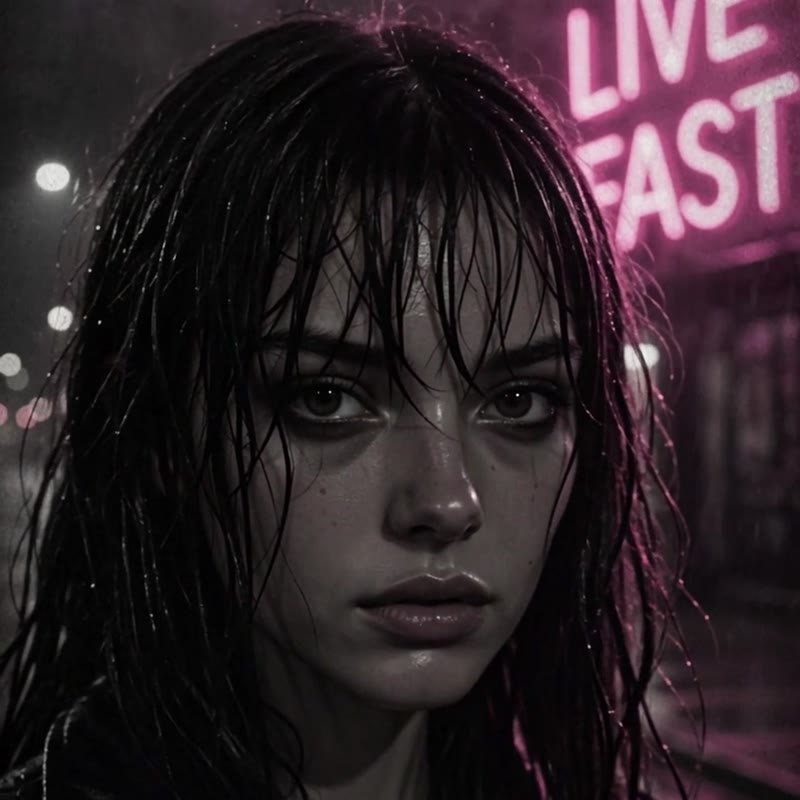
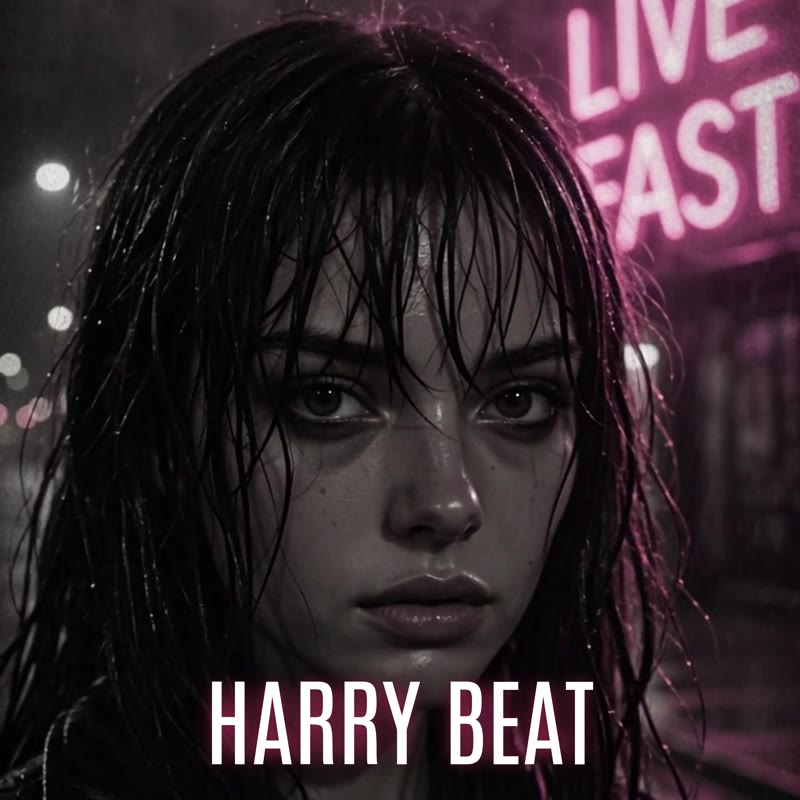
Storm cover text

Changed region(s): [[0.25, 0.8438, 0.75, 0.9688]]

diff --git a/index.html b/index.html
@@ -15,4 +15,4 @@
 <section id="contact"><h2 data-i18n="contact_title">Подписка и контакты</h2><form id="form"><input required name="name" placeholder="Ваше имя" data-i18n-ph="ph_name">
 <input required type="email" name="email" placeholder="Email"><textarea name="msg" placeholder="Сообщение (необязательно)" data-i18n-ph="ph_msg"></textarea>
 <button class="btn" type="submit" data-i18n="subscribe">Подписаться</button><p id="ok" class="ok"></p></form></section>
-<div class="socials"><a class="soc" href="https://www.instagram.com/gs_m1x/" target="_blank" rel="noopener" aria-label="Instagram" style="--c:#e1306c"><svg viewBox="0 0 24 24" width="22" height="22" fill="currentColor"><path d="M12 2.2c3.2 0 3.6 0 4.8.1 3.3.1 4.8 1.7 4.9 4.9.1 1.3.1 1.6.1 4.8s0 3.6-.1 4.8c-.1 3.2-1.7 4.8-4.9 4.9-1.3.1-1.6.1-4.8.1s-3.6 0-4.8-.1c-3.3-.1-4.8-1.7-4.9-4.9C2.2 15.6 2.2 15.2 2.2 12s0-3.6.1-4.8C2.4 3.9 4 2.4 7.2 2.3 8.4 2.2 8.8 2.2 12 2.2zm0 4.8a5 5 0 100 10 5 5 0 000-10zm0 8.2a3.2 3.2 0 110-6.4 3.2 3.2 0 010 6.4zm5.2-9.6a1.2 1.2 0 100 2.4 1.2 1.2 0 000-2.4z"/></svg><span>Instagram</span></a><a class="soc" href="https://www.tiktok.com/@harrywantsmusic" target="_blank" rel="noopener" aria-label="TikTok" style="--c:#25f4ee"><svg viewBox="0 0 24 24" width="22" height="22" fill="currentColor"><path d="M16.6 2h-3.3v13.4a2.9 2.9 0 11-2.9-2.9c.3 0 .6 0 .9.1V9.2a6.3 6.3 0 105.3 6.2V8.6a7.9 7.9 0 004.6 1.5V6.8a4.6 4.6 0 01-4.6-4.8z"/></svg><span>TikTok</span></a><a class="soc" href="https://www.youtube.com/@harrywantsmusic" target="_blank" rel="noopener" aria-label="YouTube" style="--c:#ff0033"><svg viewBox="0 0 24 24" width="22" height="22" fill="currentColor"><path d="M23.5 6.2a3 3 0 00-2.1-2.1C19.5 3.6 12 3.6 12 3.6s-7.5 0-9.4.5A3 3 0 00.5 6.2 31 31 0 000 12a31 31 0 00.5 5.8 3 3 0 002.1 2.1c1.9.5 9.4.5 9.4.5s7.5 0 9.4-.5a3 3 0 002.1-2.1A31 31 0 0024 12a31 31 0 00-.5-5.8zM9.6 15.6V8.4L15.8 12l-6.2 3.6z"/></svg><span>YouTube</span></a></div><footer>© 2026 HarryWantsMusic <span id="views"></span></footer><script src="script.js?v=28"></script></body></html>
+<div class="socials"><a class="soc" href="https://www.instagram.com/gs_m1x/" target="_blank" rel="noopener" aria-label="Instagram" style="--c:#e1306c"><svg viewBox="0 0 24 24" width="22" height="22" fill="currentColor"><path d="M12 2.2c3.2 0 3.6 0 4.8.1 3.3.1 4.8 1.7 4.9 4.9.1 1.3.1 1.6.1 4.8s0 3.6-.1 4.8c-.1 3.2-1.7 4.8-4.9 4.9-1.3.1-1.6.1-4.8.1s-3.6 0-4.8-.1c-3.3-.1-4.8-1.7-4.9-4.9C2.2 15.6 2.2 15.2 2.2 12s0-3.6.1-4.8C2.4 3.9 4 2.4 7.2 2.3 8.4 2.2 8.8 2.2 12 2.2zm0 4.8a5 5 0 100 10 5 5 0 000-10zm0 8.2a3.2 3.2 0 110-6.4 3.2 3.2 0 010 6.4zm5.2-9.6a1.2 1.2 0 100 2.4 1.2 1.2 0 000-2.4z"/></svg><span>Instagram</span></a><a class="soc" href="https://www.tiktok.com/@harrywantsmusic" target="_blank" rel="noopener" aria-label="TikTok" style="--c:#25f4ee"><svg viewBox="0 0 24 24" width="22" height="22" fill="currentColor"><path d="M16.6 2h-3.3v13.4a2.9 2.9 0 11-2.9-2.9c.3 0 .6 0 .9.1V9.2a6.3 6.3 0 105.3 6.2V8.6a7.9 7.9 0 004.6 1.5V6.8a4.6 4.6 0 01-4.6-4.8z"/></svg><span>TikTok</span></a><a class="soc" href="https://www.youtube.com/@harrywantsmusic" target="_blank" rel="noopener" aria-label="YouTube" style="--c:#ff0033"><svg viewBox="0 0 24 24" width="22" height="22" fill="currentColor"><path d="M23.5 6.2a3 3 0 00-2.1-2.1C19.5 3.6 12 3.6 12 3.6s-7.5 0-9.4.5A3 3 0 00.5 6.2 31 31 0 000 12a31 31 0 00.5 5.8 3 3 0 002.1 2.1c1.9.5 9.4.5 9.4.5s7.5 0 9.4-.5a3 3 0 002.1-2.1A31 31 0 0024 12a31 31 0 00-.5-5.8zM9.6 15.6V8.4L15.8 12l-6.2 3.6z"/></svg><span>YouTube</span></a></div><footer>© 2026 HarryWantsMusic <span id="views"></span></footer><script src="script.js?v=29"></script></body></html>

diff --git a/script.js b/script.js
@@ -1,5 +1,5 @@
 const tracks=[["Трек 1","HarryWantsMusic"],["Трек 2","HarryWantsMusic"],["Трек 3","HarryWantsMusic"],["Трек 4","HarryWantsMusic"],["Трек 5","HarryWantsMusic"],["Трек 6","HarryWantsMusic"],["__removed__",""],["SAYAN - Мальборо (Harry Remix)","HarryWantsMusic"],["Harry Beat - VHS","HarryWantsMusic"],["Harry Remix","HarryWantsMusic"],["__removed__",""],["Harry Remix 3","HarryWantsMusic"],["HarryWantsMusic - Yeah","HarryWantsMusic"],["Harry Beat - Armenia Hip Hop","HarryWantsMusic"],["Harry - beat dark 🖤","HarryWantsMusic"],["Harry Beat - Storm","HarryWantsMusic"]]
-.map((t,i)=>({title:t[0],artist:t[1],src:`tracks/track-${i+1}.mp3?v=28`,cover:`covers/cover-${i+1}.jpg`})).filter(t=>t.title!=='__removed__');
+.map((t,i)=>({title:t[0],artist:t[1],src:`tracks/track-${i+1}.mp3?v=29`,cover:`covers/cover-${i+1}.jpg`})).filter(t=>t.title!=='__removed__');
 const $=id=>document.getElementById(id),a=$("audio"),pl=$("playlist");let cur=0;
 const fmt=s=>isNaN(s)?"0:00":Math.floor(s/60)+":"+String(Math.floor(s%60)).padStart(2,"0");
 tracks.forEach((t,i)=>{const li=document.createElement("li");li.innerHTML=`<span style="color:inherit;display:flex;align-items:center;gap:10px"><img src="${t.cover}" alt="" style="width:40px;height:40px;border-radius:6px;object-fit:cover">${i+1}. ${t.title} — ${t.artist}</span><span>▶</span>`;li.onclick=()=>{load(i);a.play()};pl.appendChild(li)});
